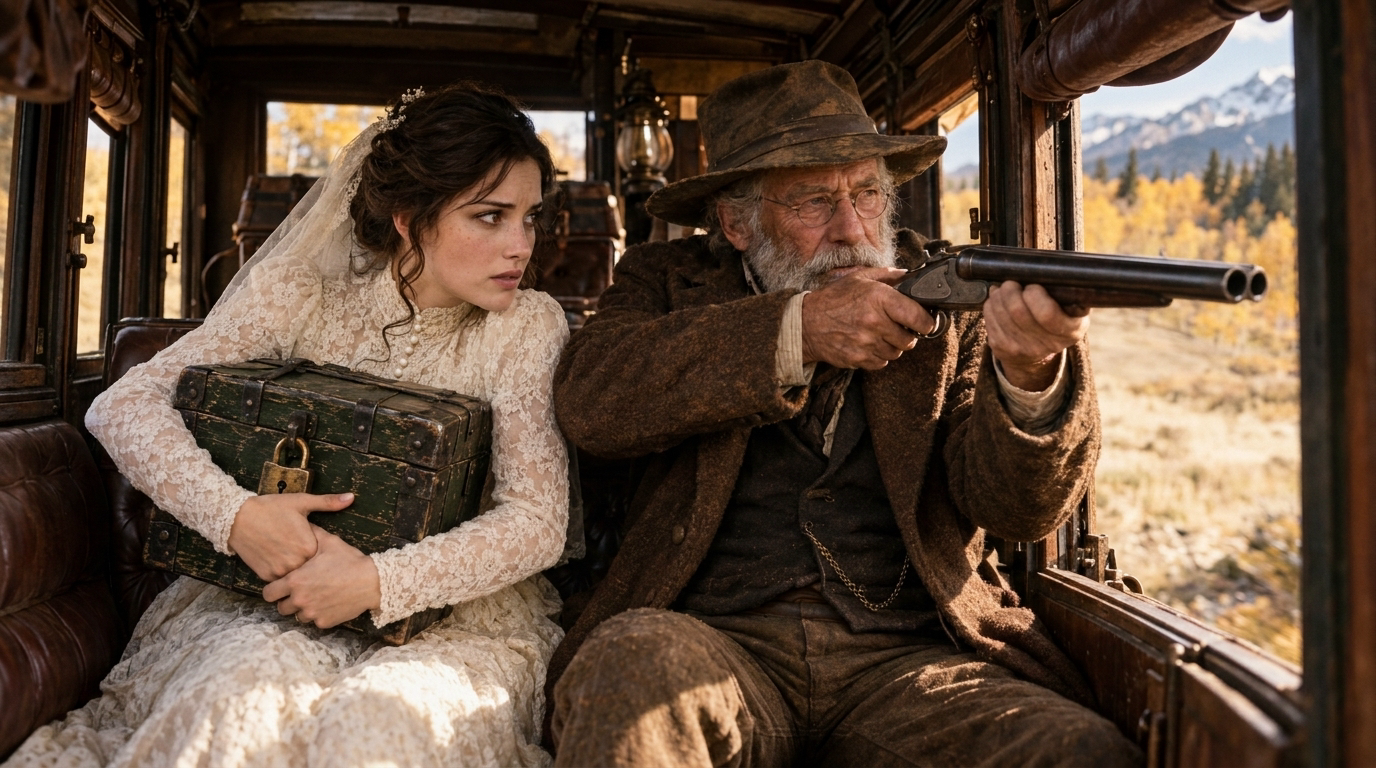
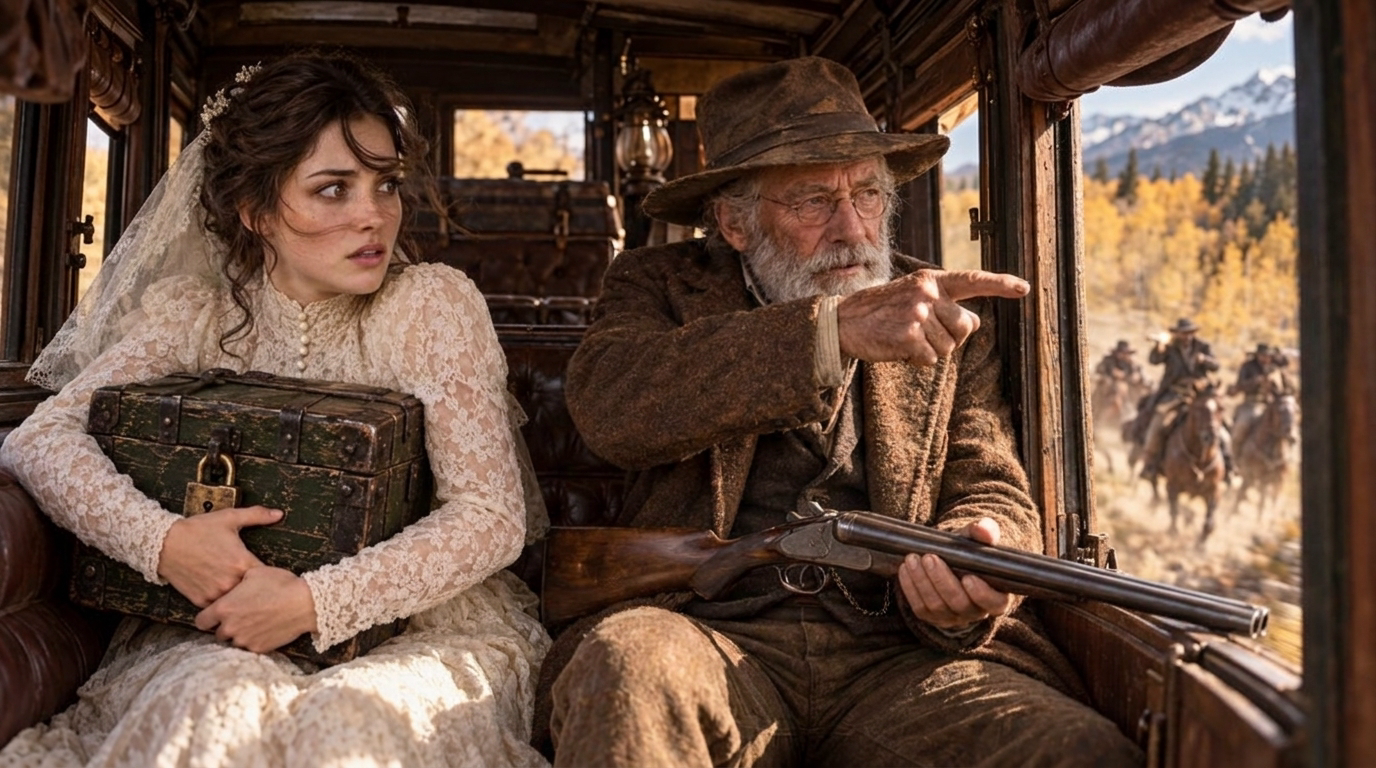
STOP 2 fixes: C04_first (airborne), C03_last (guard lowers gun, Rose turns), C13_first (hands folding dress); C01/C02 last frames unused

diff --git a/HANDOFF.md b/HANDOFF.md
@@ -5,8 +5,8 @@ Talk to the user in Russian, briefly. Branch `pkg/western_stagecoach_bride_v1` i
 ## Status
 - Phase 0, 1 (refs 38 files, approved at STOP 1): done.
 - Phase 2 (v3 stills): **I01–I11 done** (visuals/images/I01..I11.png, ChatGPT, 1672x941).
-- v2 stills reused as first frames: I02→`C12_first.png` (ok), I03→`C11_first.png` (ok, grey travel dress), I04→`C13_first.png` (**REDO**: v3 wants hands folding the wedding dress into a carpetbag; the picture shows dress + letters on a table).
-- Phase 3 now: **only cold open C01–C04 (first + last), then STOP 2.** ALL DONE (C01-C04 first+last) -> STOP 2 waiting for the user. C02_last, C03_last, C04_first/last came from Flow because ChatGPT's file-attachment limit was reached until 15:09 6 Oct.
+- v2 stills reused as first frames: I02→`C12_first.png` (ok), I03→`C11_first.png` (ok, grey travel dress), I04→`C13_first.png` (redone 6 Oct in Flow: hands folding the dress into a carpetbag).
+- Phase 3 now: **only cold open C01–C04 (first + last), then STOP 2.** STOP 2 answered 6 Oct: approved I01-I11, C01, C02, C03_first, C04_last; C04_first, C03_last, C13_first were redone (waiting for the user's look). C01_last and C02_last are NOT used: video for those clips is first-frame only. C02_last, C03_last, C04_first/last came from Flow because ChatGPT's file-attachment limit was reached until 15:09 6 Oct.
 - Flow route that works (new project 25886d44..., refs already uploaded by name): fresh tab, click the prompt bar once to wake the page, click '+' (457,538), TYPE the file name (search is focused), Enter; repeat per ref; type prompt; send at (896,540); ~30 s; open tile, download icon (1144,30) -> '1K' (1188,70). A last frame can be made by EDITING the first-frame tile (type the change in the edit bar, send at (806,535)). Tabs freeze often: use a fresh tab, never close old ones. Last frames are made with the first frame attached (`tools/build_frame.py C01:last` builds the package, first frame = `01_FIRST_FRAME.jpg`).
 - The other ~110 frames are NOT to be made here: the user plans to generate them via API on the server. Do not start them.
 - Phases 4 (narration), 5 (music), video: not started. Flow credits spent: 0.
